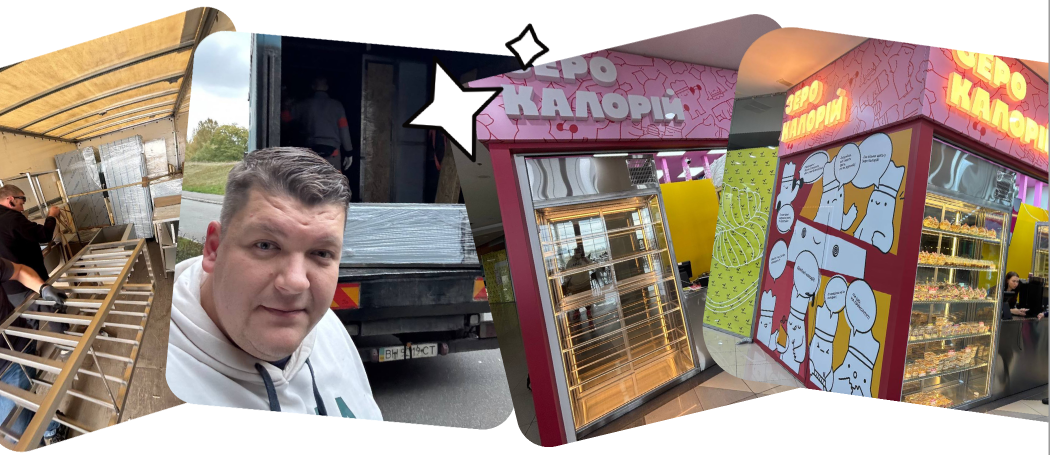
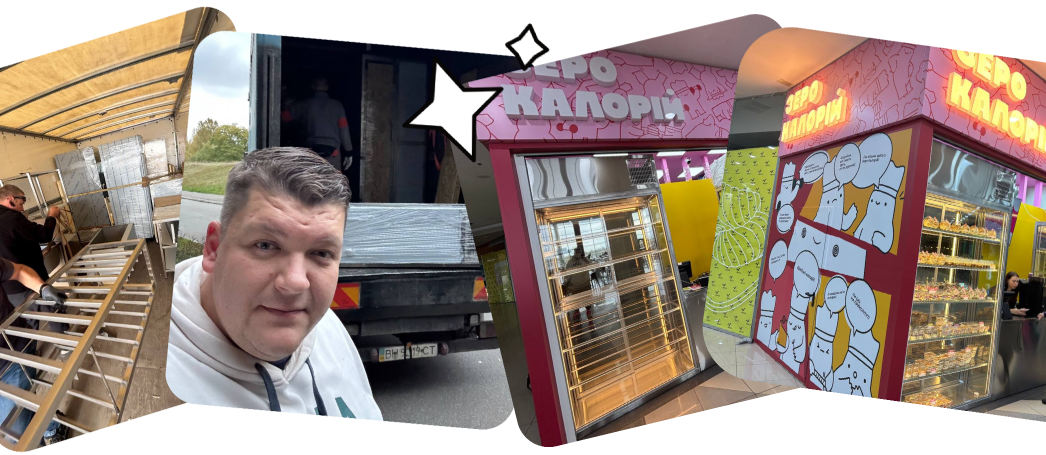
fix about us

diff --git a/backend_sp/static/style/style.css b/backend_sp/static/style/style.css
@@ -17,6 +17,7 @@
   --grey-color:#ABA7A6;
   --dark-grey: #666463;
   --pinkmiddle-color: #E68A96;
+  --background-color: #FFF9F8;
 
 
 }
@@ -174,7 +175,7 @@
 html, body {
   overflow-x: hidden;
   font-family: 'Montserrat', Arial, sans-serif;
-
+  background-color: var(--background-color);
 }
 
 a {
@@ -248,7 +249,7 @@ header {
   z-index: 1000;
   position: fixed;
   top: 0;
-background-color: #fff;
+background-color: var(--background-color);
 
 }
 header .nav-container .container {
@@ -283,7 +284,6 @@ header .nav-container .container nav ul li {
 header .nav-container .container nav ul li a {
   font-size: 1rem;
   color: var(--black);
-  text-transform: uppercase;
   position: relative;
   transition: all 0.5s ease;
 }
@@ -1048,12 +1048,11 @@ footer{
 
 footer .container{
   position: relative;
-     border-top: 1px solid var(--pinkdark-color);
 
 }
 
 .footer-block{
-  margin-top: -60px;
+  margin-top: -200px;
   background-color: var(--pinkdark-color);
   padding: 36px 64px;
   border-radius: 20px;
@@ -1128,6 +1127,8 @@ footer .container{
   display: flex;
   justify-content: space-between;
   padding-bottom: 75px;
+  border-top: 1px solid var(--pinkdark-color);
+
 }
 .text-footer .copy{
   color:#E68A96;
@@ -1879,16 +1880,17 @@ color: var(--black);
 .about-intro__mission{
   color: var(--dark-grey);
   text-align: center;
-  padding-left: 35%;
-  padding-right: 35%;
-  padding-bottom: 100px;
+  padding-left: 28%;
+  padding-right: 28%;
 padding-top: 24px;
+line-height: 100%;
+font-size: 24px;
 }
 .about-story__grid{
   display: flex;
   flex-direction: row;
-  justify-content: space-between;
-  padding-bottom: 136px;
+  /* padding-bottom: 136px; */
+  gap: 20px;
 }
 .about-story__images{
   width: 55%;
@@ -1898,6 +1900,7 @@ padding-top: 24px;
   width: 40%;
   color: var(--grey-color);
   font-size: 16px;
+  padding-top: 160px;
 }
 .ab-s1{
   width: 307px;
@@ -1946,14 +1949,15 @@ position: absolute;
 
 .about-gallery{
   display: flex;
-  padding-bottom: 150px;
-  padding-top: 100px;
-  padding-left: 10%;
+  padding-bottom: 300px;
+  position: relative;
+  /* padding-top: 100px; */
+  /* padding-left: 10%; */
 
 }
 .about-gallery-text{
   width: 30%;
-  padding-top: 100px;
+  padding-top: 150px;
 }
 
 .about-gallery__grid{
@@ -1991,6 +1995,31 @@ position: absolute;
   width: 60px;
   gap: 50px;
 }
+.about-img-hero{
+  max-width: 787px;
+  margin-left: -29px;
+}
+.about-img-main{
+  position: absolute;
+  right: 0px;
+}
+.about-img-main-m{
+  display: none;
+}
+.about-gallery {
+    position: relative;      /* для абсолютного позиционирования дочернего элемента */
+    margin: 0 auto;          /* центрируем секцию */
+    overflow: visible;       /* разрешаем выход картинки за пределы */
+}
+
+.about-img-main {
+    position: absolute;      /* приклеиваем внутри секции, но с выходом */
+    top: 0;
+    right: calc(-50vw + 50%); /* выталкиваем картинку к правому краю окна */
+    width: 55vw;             /* ширина картинки */
+    /* max-width: 600px; */
+    height: auto;
+}
 /* delivery */
 
 .delivery h1.delivery-title{
@@ -2001,7 +2030,9 @@ position: absolute;
   display: none;
 }
 
-
+.about-img-hero-m{
+  display: none;
+}
 
 
 @media screen and (max-width: 1621px) {
@@ -2827,7 +2858,7 @@ gap:8px;
         min-width: 150px;
     }
         #favlist .container{
-          padding-bottom: 20px;
+          padding-bottom: 0px;
         }
             #show-all-btn{
               min-width: 350px;
@@ -2839,7 +2870,7 @@ gap:8px;
                   padding: 3px;
                 }
                 #favlist{
-                  padding-bottom: 30px;
+                  padding-bottom: 0px;
                 }
                     .nav-product{
                       padding-top: 34px;
@@ -2889,6 +2920,78 @@ top: -520px;
         left: 160px;
         padding-top: 180px;
     }
+          .about-intro__mission {
+            padding-bottom: 10px;
+          }
+.about-story__text{
+  padding-top: 0;
+  padding-left: 0;
+  padding-bottom: 20px;
+}
+.about-img-main {
+    display: none;
+}
+.about-img-hero{
+  display: none;
+}
+
+.about-story__grid .about-img-hero-m{
+  display: block;
+ margin-left: -9px;
+}
+.about-gallery {
+    position: relative;
+    display: flex;
+    flex-direction: column;
+    overflow: visible;
+    padding-bottom: 0;
+}
+
+.about-img-main-m {
+  display: block;
+    width: 100vw;
+    position: relative;
+    left: 50%;
+    transform: translateX(-50%);
+    padding-bottom: 30px;
+}
+
+.about-img-main-m img {
+    width: 100%;
+    height: auto;
+    display: block;
+}
+
+
+header .nav-container .container .logo a {
+  margin-left: 0;
+}
+
+.about-gallery-text {
+    display: block;
+    padding-bottom: 20px;
+}.about-story__grid{
+  padding-bottom: 0;
+}
+ .about-gallery {
+        display: flex;
+        flex-direction: column; /* текст сверху, картинка снизу */
+        align-items: flex-start;
+    }
+
+    .top100 {
+        margin-top: 100px;
+    }
+    .mb150 {
+        margin-bottom: 10px;
+    }
+    .title-section{
+      padding-left: 20%;
+      padding-right: 20%;
+    }
+        .about-intro__mission {
+        padding: 0 10% 120px 10%;
+      }
 }
 @media screen and (max-width: 415px) {
       .ab-s1, .ab-s2{
@@ -2897,12 +3000,10 @@ top: -520px;
                 .ab-s5{
                   left: 95px;
                 }
-                .about-story__text, .about-gallery-text{
+                .about-story__text{
                   padding-left: 15px;
                 }
-                .about-gallery{
-                  margin-top: -30px;
-                }
+
   .hero .rb-hero-index{
     top: 280px;
     width: 100%;

diff --git a/backend_sp/main/templates/main/aboutus.html b/backend_sp/main/templates/main/aboutus.html
@@ -31,10 +31,15 @@
 
             <!-- STORY BLOCK -->
             <section class="about-story">
-                <div class="container about-story__grid">
-
+                <div class="about-story__grid">
+<div class="about-img-hero">
+    <img src="{% static './img/about-us-hero-section.png' %}" alt="about us">
+</div>
+<div class="about-img-hero-m">
+    <img src="{% static './img/about_us_hero-m.png' %}" alt="about us">
+</div>
                     <!-- PHOTOS -->
-                    <div class="about-story__images">
+                    <!-- <div class="about-story__images">
                         <div class="ab-s1"><img src="{% static './img/about1.png' %}" alt="about us"></div>
                         <div>
                             <div class="ab-s2"><img src="{% static './img/about2.png' %}" alt="about us"></div>
@@ -42,7 +47,7 @@
                             <div class="ab-s4"><img src="{% static './img/mesage-hart.png' %}" alt="about us"></div>
                             <div class="ab-s5"><img src="{% static './img/star_aboutus.svg' %}" alt="about us"></div>
                         </div>
-                    </div>
+                    </div> -->
 
                     <!-- TEXT -->
                     <div class="about-story__text">
@@ -71,7 +76,10 @@
                     <div>{% ftlmsg 'ooo_boze_text_about' %}</div>
                     <div>{% ftlmsg "nareshnio_end_text_about" %} </div>
                 </div>
-                <div class="about-gallery__grid">
+                <div class="about-img-main">
+                    <img src="{% static './img/about_us_main.png' %}" alt="about us">
+                </div>
+                <!-- <div class="about-gallery__grid">
 
                     <div class="about-gallery__grid-pic1"><img src="{% static './img/about4.png' %}" alt="about us">
                     </div>
@@ -84,8 +92,12 @@
 
                 </div>
                                                         <div class="about-gallery__grid-pic5"><img src="{% static './img/duble_star.png' %}" alt="about us">
-                    </div>
+                    </div> -->
             </section>
+                            <div class="about-img-main-m">
+                    <img src="{% static './img/about-us-main-m.png' %}" alt="about us">
+                </div>
+
         </div>
     </div>
     {% endblock content %}

diff --git a/backend_sp/templates/base.html b/backend_sp/templates/base.html
@@ -258,7 +258,7 @@
               <ul>
                 <li><a href="{% url 'goods:catalog' %}">{% ftlmsg  "all_goods_base" %}</a></li>
                 <li><a href="{% url 'main:about' %}">{% ftlmsg  "aboutus_base" %}</a></li>
-                <li><a href="#new-product-section">{% ftlmsg  "news_base" %}</a></li>
+                <li><a href="{% url 'main:index' %}#new-product-section">{% ftlmsg  "news_base" %}</a></li>
                 <li><a href="{% url 'main:policy' %}">{% ftlmsg  "privacy_policy_base" %}</a></li>
                 <li><a href="{% url 'main:offer' %}">{% ftlmsg  "public_offer_base" %}</a></li>
               </ul>

diff --git a/backend_sp/goods/templates/goods/search_results.html b/backend_sp/goods/templates/goods/search_results.html
@@ -16,7 +16,7 @@
     <h1 class="mb-4">{% ftlmsg "search_result" query=query %}</h1>
 
     {% if goods %}
-       <ul class="favlist-list" id="favlist-products" style="height: 426px;">
+       <ul class="favlist-list" id="favlist-products" style="max-height: 426px;">
             {% for result in goods %}
         <li class="product-card">
           <a href="{% url 'goods:product' product_slug=result.slug %}" class="product-link">
